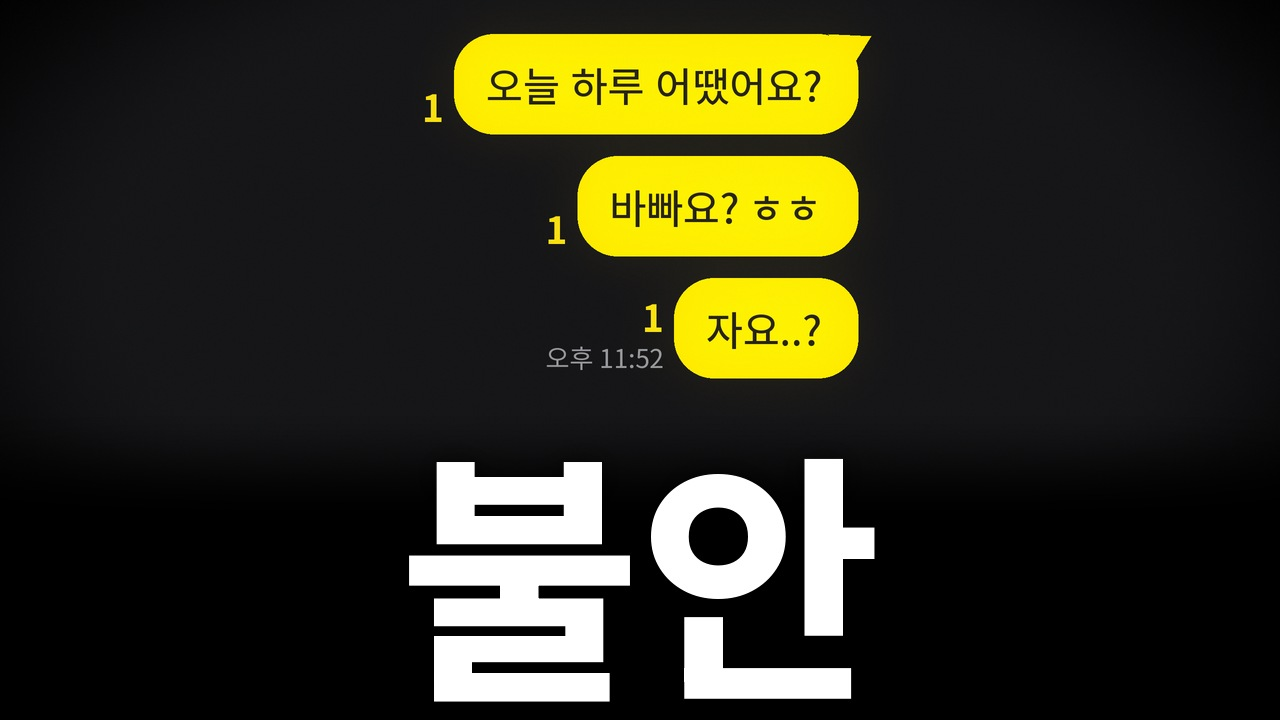
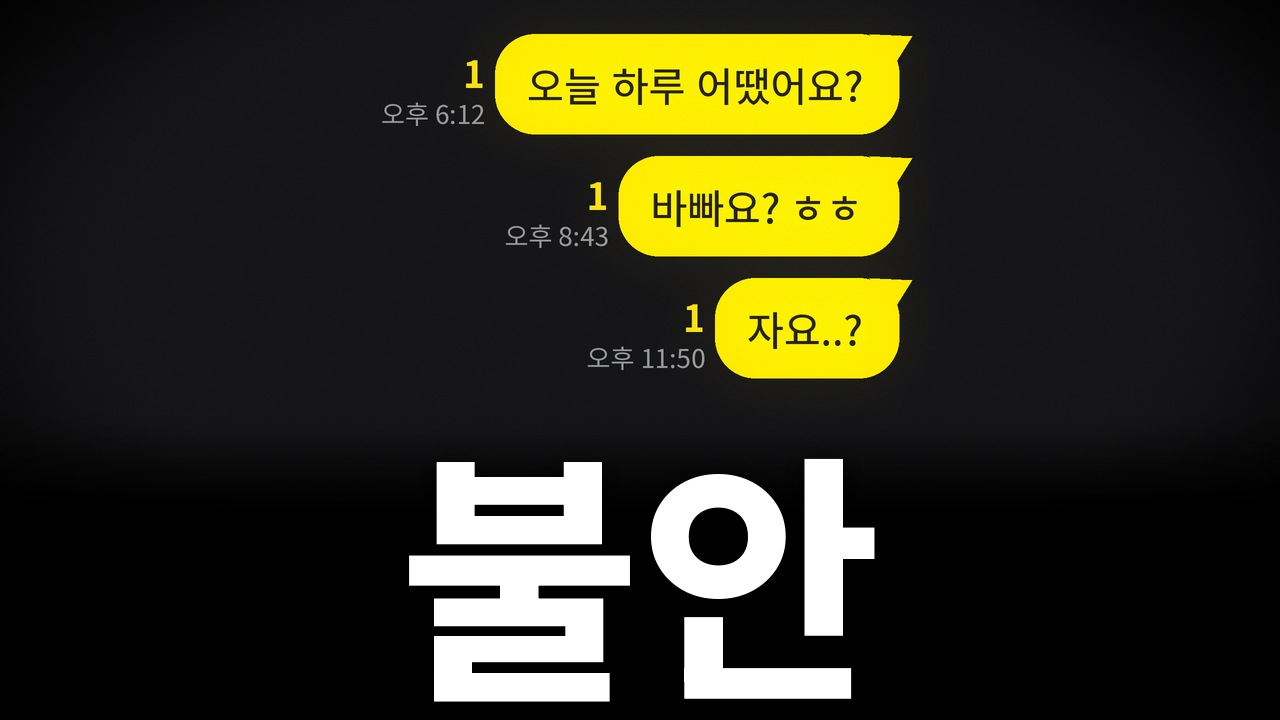
F의연애: 01편 썸네일에 메시지별 보낸 시각 넣기
- "오늘 하루 어땠어요?" 오후 6:12, "바빠요? ㅎㅎ" 오후 8:43, "자요..?" 오후 11:50
- thumb_chat.py: --times 옵션, 분이 다른 메시지는 말풍선마다 꼬리와 '1'·시간 표시(카톡 묶음 규칙)
- README·진행기록 갱신

Claude-Session: https://claude.ai/code/session_01W2LvTK1LxBBrCR9gG9ohCC

Changed region(s): [[0.2812, 0.0306, 0.7188, 0.55]]

diff --git a/F의연애/썸네일/thumb_chat.py b/F의연애/썸네일/thumb_chat.py
@@ -6,7 +6,8 @@
 # 말풍선은 기울이지 않고 똑바로 둔다. 아래에 주제 단어(thumb.py와 같은 글꼴·위치, 기본 흰색).
 #
 # usage: thumb_chat.py OUT.jpg [--theme dark|light] [--word 불안] [--color white|red]   (기본: dark, white)
-#                              [--msgs "a|b|c"] [--time "오후 11:52"]
+#                              [--msgs "a|b|c"] [--times "오후 6:12|오후 8:43|오후 11:50"]
+#   --times: 메시지마다 보낸 시각. 분이 다르면 카톡은 말풍선마다 꼬리를 새로 달고, 왼쪽에 '1'과 시간을 위아래로 둔다.
 #   light: 카톡 기본 테마(하늘색 배경) 화면 조각을 검은 배경 위에 둔다
 #   dark : 카톡 다크 테마처럼 검은 화면에 노란 말풍선만
 import os, sys
@@ -42,43 +43,46 @@ def noto(weight, px_height, sample="원하는거 올릴수있게변함"):
     return f
 
 
-def draw_chat(d, msgs, right, top, h, theme, time):
-    """My messages, Galaxy KakaoTalk style: yellow pill bubbles right-aligned at x=right, '1' on the left of each,
-    the time under the last '1'. Returns the bounding box of everything drawn."""
+def draw_chat(d, msgs, right, top, h, theme, times):
+    """My messages, Galaxy KakaoTalk style: yellow pill bubbles right-aligned at x=right, '1' on the left of each.
+    times: one entry per message (None = no time shown). A message with a time closes its minute group, so the next
+    bubble starts a new group and gets the tail again, as on the real screen. Returns the bounding box drawn."""
     ft, f1, fm = noto(450, R_TEXT * h), noto(700, R_ONE * h, "1"), noto(400, R_TIME * h, "오후 11:52")
     y, box = top, [right, top, right, top]
+    new_group = True
     for i, m in enumerate(msgs):
+        time = times[i] if i < len(times) else None
         bb = ft.getbbox(m)
         bw = (bb[2] - bb[0]) + (R_PADL + R_PADR) * h
         x1, x0 = right, right - bw
         d.rounded_rectangle([x0, y, x1, y + h], radius=R_RADIUS * h, fill=BUBBLE)
-        if i == 0:   # tail on the first bubble of the run (top right)
+        if new_group:   # tail on the first bubble of each group (top right)
             d.polygon([(x1 - 0.30 * h, y), (x1 + 0.13 * h, y + 0.02 * h), (x1 - 0.02 * h, y + 0.26 * h)], fill=BUBBLE)
         d.text((x0 + R_PADL * h - bb[0], y + h / 2), m, font=ft, fill=TEXT, anchor="lm")
-        last = i == len(msgs) - 1
-        one_bottom = y + h - (0.46 if (last and time) else 0.12) * h
+        one_bottom = y + h - (0.46 if time else 0.12) * h
         d.text((x0 - 0.10 * h, one_bottom), "1", font=f1, fill=ONE, anchor="rs")
-        if last and time:
+        if time:
             d.text((x0 - 0.10 * h, y + h - 0.10 * h), time, font=fm, fill=THEMES[theme]["time"], anchor="rs")
             box[0] = min(box[0], x0 - 0.10 * h - fm.getlength(time))
         box[0] = min(box[0], x0 - 0.10 * h - f1.getlength("1"))
+        new_group = bool(time)
         y += h + R_GAP * h
     box[3] = y - R_GAP * h
     return box
 
 
-def make_light(msgs, time, h=100):
+def make_light(msgs, times, h=100):
     """A crop of the default-theme chat screen (light blue) floating on black, softly lit."""
     CW, CH = W * S, H * S
     hh = h * S
     # measure the chat block first, then size the screen crop around it
-    probe = Image.new("RGB", (CW, CH)); bx = draw_chat(ImageDraw.Draw(probe), msgs, CW, 0, hh, "light", time)
+    probe = Image.new("RGB", (CW, CH)); bx = draw_chat(ImageDraw.Draw(probe), msgs, CW, 0, hh, "light", times)
     bw, bh = CW - bx[0], bx[3] - bx[1]
     pad_l, pad_r, pad_v = 70 * S, 34 * S, 40 * S
     cw, ch = round(bw + pad_l + pad_r), round(bh + 2 * pad_v)
     cx0, cy0 = (CW - cw) // 2, 24 * S                 # crop ends well above the title
     card = Image.new("RGB", (cw, ch), THEMES["light"]["bg"])
-    draw_chat(ImageDraw.Draw(card), msgs, cw - pad_r, pad_v, hh, "light", time)
+    draw_chat(ImageDraw.Draw(card), msgs, cw - pad_r, pad_v, hh, "light", times)
     img = Image.new("RGB", (CW, CH), (0, 0, 0))
     glow = Image.new("L", (CW, CH), 0)          # screen light spilling into the dark around the crop
     ImageDraw.Draw(glow).rounded_rectangle([cx0 - 20 * S, cy0 - 10 * S, cx0 + cw + 20 * S, cy0 + ch + 30 * S], radius=60 * S, fill=110)
@@ -90,15 +94,15 @@ def make_light(msgs, time, h=100):
     return finish(img)
 
 
-def make_dark(msgs, time, h=100):
+def make_dark(msgs, times, h=100):
     """Dark-theme chat: black screen, only my yellow bubbles, a soft glow like a lit screen in a dark room."""
     CW, CH = W * S, H * S
     hh = h * S
-    probe = Image.new("RGB", (CW, CH)); bx = draw_chat(ImageDraw.Draw(probe), msgs, CW, 0, hh, "dark", time)
+    probe = Image.new("RGB", (CW, CH)); bx = draw_chat(ImageDraw.Draw(probe), msgs, CW, 0, hh, "dark", times)
     bw = CW - bx[0]
     right = (CW + bw) / 2
     img = Image.new("RGB", (CW, CH), THEMES["dark"]["bg"])
-    draw_chat(ImageDraw.Draw(img), msgs, right, 34 * S, hh, "dark", time)
+    draw_chat(ImageDraw.Draw(img), msgs, right, 34 * S, hh, "dark", times)
     a = np.asarray(img, np.float32)
     lum = a.mean(2)
     bright = Image.fromarray(np.clip((lum - 120) * 2, 0, 255).astype(np.uint8)).filter(ImageFilter.GaussianBlur(26 * S))
@@ -122,8 +126,13 @@ if __name__ == "__main__":
     a = sys.argv[1:]
     opt = lambda k, dflt: a[a.index(k) + 1] if k in a else dflt
     msgs = opt("--msgs", "오늘 하루 어땠어요?|바빠요? ㅎㅎ|자요..?").split("|")
-    time = opt("--time", "오후 11:52")
-    img = (make_light if opt("--theme", "dark") == "light" else make_dark)(msgs, time)   # 기본 다크(2026-10-22 사용자 결정)
+    if "--times" in a:
+        times = [t.strip() or None for t in opt("--times", "").split("|")]
+    elif "--time" in a:                      # one time under the last message only
+        times = [None] * (len(msgs) - 1) + [opt("--time", "")]
+    else:                                    # 01편: 저녁 6:12, 8:43, 밤 11:50에 하나씩 보냄(2026-10-22 사용자 지정)
+        times = ["오후 6:12", "오후 8:43", "오후 11:50"]
+    img = (make_light if opt("--theme", "dark") == "light" else make_dark)(msgs, times)   # 기본 다크(2026-10-22 사용자 결정)
     img = bottom_fade(img, 405, 520)
     put_word(img, opt("--word", "불안"), opt("--color", "white")).save(a[0], quality=93)
     print(a[0])

diff --git a/F의연애/썸네일/README.md b/F의연애/썸네일/README.md
@@ -12,6 +12,7 @@
 7. 사용자가 다크 테마(검은 화면 + 노란 말풍선)를 골랐다(2026-10-22). thumb_chat.py의 기본값도 다크다.
 8. 사용자 요청: 주제 단어를 더 크게. 186px → 236px로 키우고, 말풍선을 조금 줄여(높이 112 → 104px) 위로 올렸다(2026-10-22).
 9. 사용자 지시: 글자 높이를 화면 높이의 1/3 이상으로. 262px로 키우고 말풍선을 높이 100px로 조금 더 줄여 위로 올렸다(2026-10-22).
+10. 사용자 지시: 메시지마다 보낸 시각을 다르게. "오늘 하루 어땠어요?" 오후 6:12, "바빠요? ㅎㅎ" 오후 8:43, "자요..?" 오후 11:50(2026-10-22).
 
 ---
 
@@ -33,7 +34,8 @@
 5. 채팅 확대판(thumb_chat.py)의 카톡 화면 값은 갤럭시 실제 화면에서 쟀습니다.
    - 말풍선 (253, 229, 0), 글자 (24, 24, 24), 기본 테마 배경 (171, 192, 209)
    - 말풍선 높이 h를 기준으로 모서리 둥글기 0.40h, 글자 높이 0.37h, 좌우 여백 0.32h·0.36h, 말풍선 사이 0.22h
-   - '1'은 실제(0.22h)보다 조금 크게 0.28h, 시간은 마지막 '1' 아래(0.24h)
+   - '1'은 실제(0.22h)보다 조금 크게 0.28h. 시간(0.24h)은 그 메시지의 '1' 아래
+   - 보낸 시각(분)이 다르면 카톡은 메시지를 다른 묶음으로 보여 준다. 그래서 말풍선마다 꼬리가 다시 생기고, 왼쪽에 '1'과 시간이 위아래로 붙는다(사용자 갤럭시 화면에서 확인한 규칙).
    - 다크 테마 배경과 시간 색은 참고 화면이 없어 어림값입니다.
    - 초안 방식(thumb.py)의 휴대폰 그림은 채널 강조색 노랑(#F2C94C)을 썼습니다.
 
@@ -51,7 +53,7 @@
 
 ## 3. 01편 (01_불안형_답장/)
 
-1. 썸네일.jpg(최종, 2026-10-22): 다크 테마 카톡 화면 + 흰 글씨 "불안". 나만 보낸 말풍선 3개("오늘 하루 어땠어요?", "바빠요? ㅎㅎ", "자요..?"), 읽지 않은 '1', 마지막 시간 "오후 11:52"
+1. 썸네일.jpg(최종, 2026-10-22): 다크 테마 카톡 화면 + 흰 글씨 "불안". 나만 보낸 말풍선 3개와 보낸 시각("오늘 하루 어땠어요?" 오후 6:12, "바빠요? ㅎㅎ" 오후 8:43, "자요..?" 오후 11:50), 모두 읽지 않은 '1'
 2. 초안/: 첫 시안 A·B·C(Pretendard Black), B2(휴대폰 + 본고딕 글씨, 빨간·흰), 채팅 확대판 빨간 글씨, 채팅 확대판 흰 글씨(이전 글꼴 Pretendard SemiBold), 갤럭시 라이트(하늘색 기본 테마)
 
 ---
@@ -62,7 +64,7 @@
    - 주제 단어: Noto Sans KR 가변 글꼴(OFL)을 NotoSansKR-VF.ttf라는 이름으로 저장합니다. https://raw.githubusercontent.com/google/fonts/main/ofl/notosanskr/NotoSansKR%5Bwght%5D.ttf
    - 휴대폰 화면 글자: Pretendard Bold·SemiBold(OFL). https://cdn.jsdelivr.net/npm/pretendard@1.3.9/dist/public/static/Pretendard-Bold.otf (SemiBold도 같은 형식)
 2. 채팅 확대판(01편 결정안)
-   - `python3 thumb_chat.py out.jpg --word 불안 --msgs "오늘 하루 어땠어요?|바빠요? ㅎㅎ|자요..?" --time "오후 11:52"` (기본: 다크 테마, 흰 글씨. 라이트는 --theme light)
+   - `python3 thumb_chat.py out.jpg --word 불안 --msgs "오늘 하루 어땠어요?|바빠요? ㅎㅎ|자요..?" --times "오후 6:12|오후 8:43|오후 11:50"` (기본: 다크 테마, 흰 글씨. 라이트는 --theme light. 마지막 메시지에만 시간을 두려면 --time)
 3. 휴대폰 물체(초안 방식)
    - `python3 thumb.py phone out.jpg --word 불안 --color white --msgs "오늘 하루 어땠어요?|바빠요? ㅎㅎ|자요..?" --name "그 사람"`
 4. 사진 물체

diff --git a/F의연애/진행기록.md b/F의연애/진행기록.md
@@ -4,6 +4,13 @@
 
 ---
 
+## 2026-10-22 (15) 썸네일 메시지별 보낸 시각
+
+1. 사용자 지시: "오늘 하루 어땠어요?"는 저녁 6시 12분, "바빠요? ㅎㅎ"는 8시 43분, "자요..?"는 밤 11시 50분에 보낸 것으로
+2. 반영: 말풍선마다 왼쪽에 '1'과 시간(오후 6:12, 오후 8:43, 오후 11:50)을 위아래로 두었다. 분이 다른 메시지는 카톡에서 다른 묶음이라 말풍선마다 꼬리를 다시 달았다(사용자 갤럭시 화면에서 확인한 규칙). thumb_chat.py에 --times 옵션을 더했다.
+
+---
+
 ## 2026-10-22 (14) 썸네일 주제 단어: 화면 높이의 1/3 이상
 
 1. 사용자 지시: 글씨 크기가 가로로 3등분했을 때 한 칸만큼은 크면 좋겠다.
